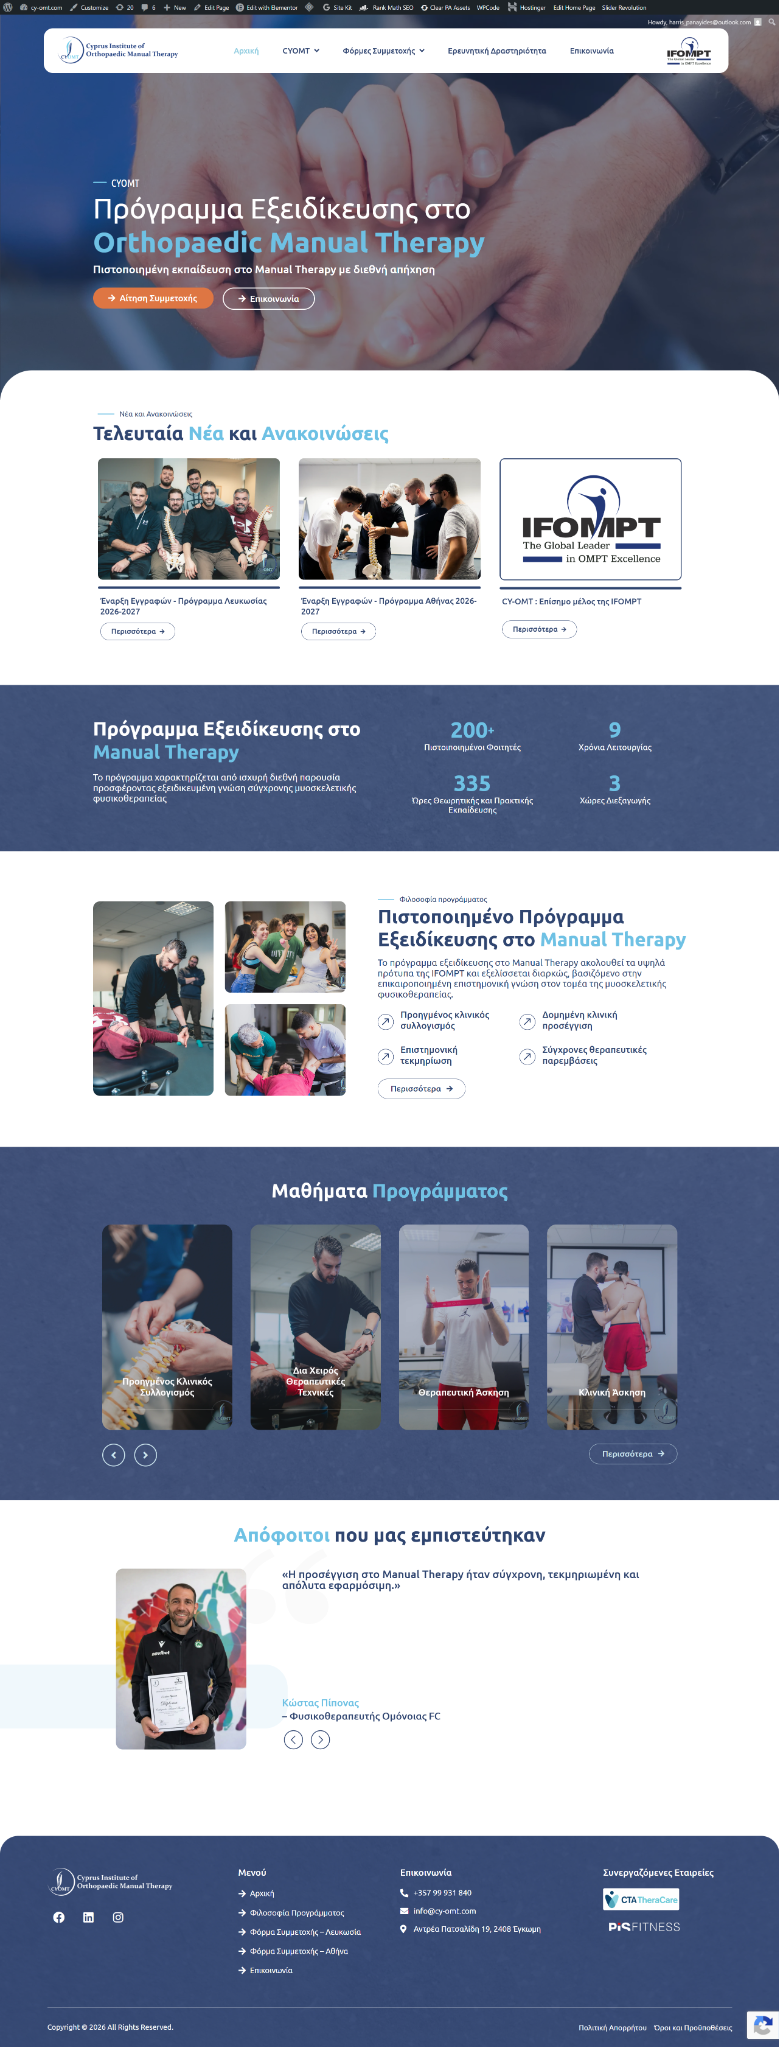
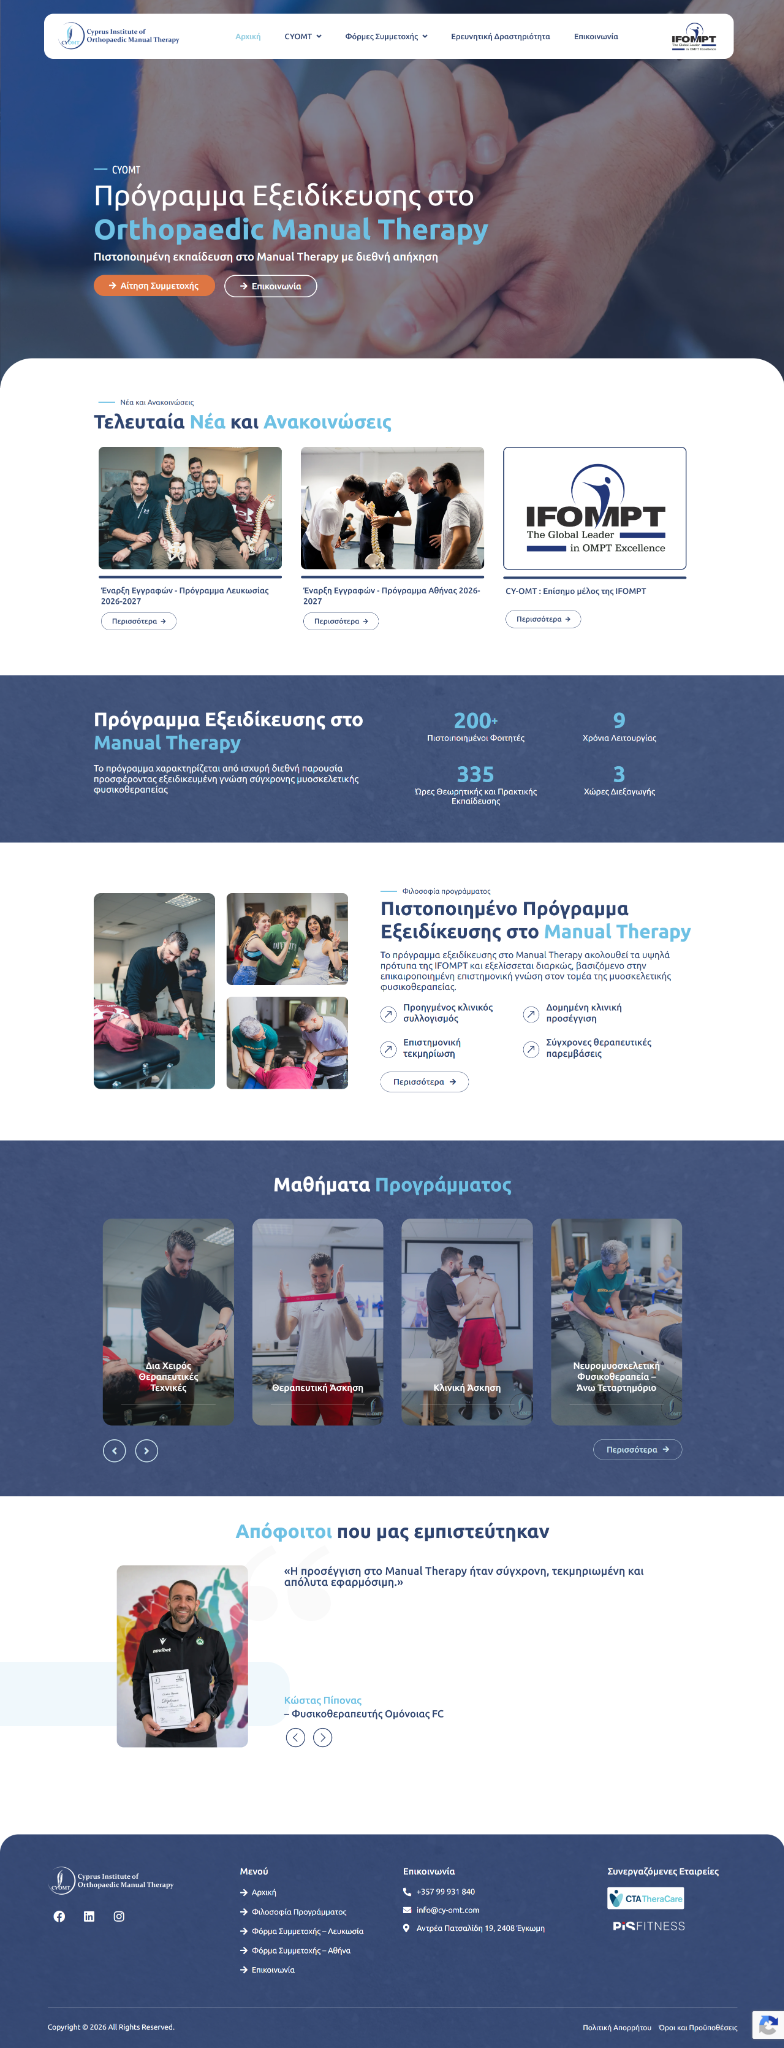
Refine CY-OMT case study presentation

diff --git a/src/routes/projects.$slug.tsx b/src/routes/projects.$slug.tsx
@@ -365,14 +365,12 @@ function ProjectPage() {
             </div>
 
             <div className="mt-24 grid items-center gap-12 border-t border-hairline pt-16 md:mt-32 md:grid-cols-12 md:pt-24">
-              <figure className="interface-detail md:col-span-4">
-                <img
+              <div className="static-phone-detail flex justify-center md:col-span-4">
+                <PhonePreview
                   src={asset("cy-omt-mobile-menu.png")}
                   alt="Expanded CY-OMT mobile navigation showing programme sections"
-                  className="block w-full"
-                  loading="lazy"
                 />
-              </figure>
+              </div>
               <div className="md:col-span-5 md:col-start-7">
                 <div className="font-mono-label text-muted-foreground">
                   Navigation detail — 04

diff --git a/src/styles.css b/src/styles.css
@@ -255,12 +255,27 @@ body::before {
   width: min(100%, 255px);
 }
 
-.interface-detail {
-  overflow: hidden;
-  border: 1px solid var(--color-hairline);
-  border-radius: 4px;
-  background: #fff;
-  box-shadow: 0 24px 45px rgb(24 24 20 / 0.1);
+.cy-omt-phone-pair .phone {
+  aspect-ratio: 615 / 1035;
+}
+
+.static-phone-detail .phone {
+  width: min(70vw, 270px);
+  aspect-ratio: 615 / 1035;
+}
+
+.static-phone-detail .device-scroll img,
+.static-phone-detail .device-scroll:hover img {
+  width: 100%;
+  height: 100%;
+  object-fit: contain;
+  object-position: top;
+  transform: none;
+  transition: none;
+}
+
+.static-phone-detail .device-hint {
+  display: none;
 }
 
 .device-scroll img {
